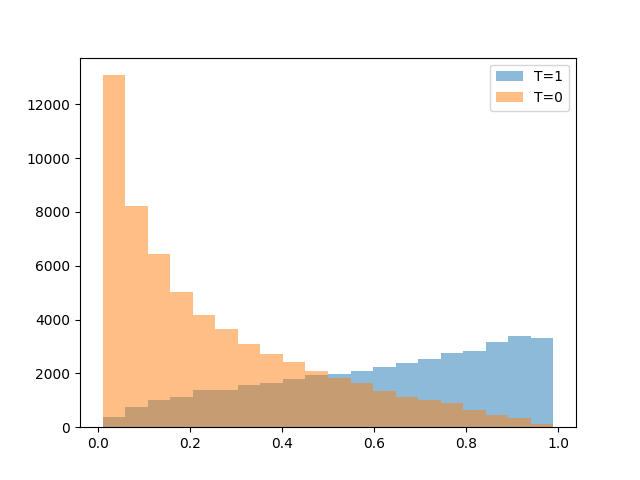
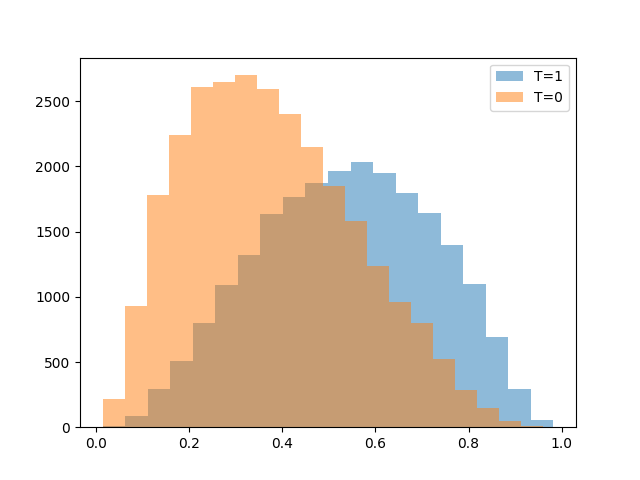
fix

diff --git a/src/make_data.py b/src/make_data.py
@@ -23,7 +23,7 @@ class DatasetGenerator:
         self.seed = seed
 
     def generate_dataset(self) -> dict[str, NDArray[Any]]:
-        dataset: Dict[str, NDArray[Any]] = {}
+        dataset: dict[str, NDArray[Any]] = {}
         dataset |= self.generate_feature()
         dataset |= self.generate_treatment(dataset["features"])
         # auc_score = self.calculate_auc(dataset["T"], dataset["T_prob"])
@@ -64,11 +64,11 @@ class DatasetGenerator:
         np.random.seed(self.seed)
         T_prob = sigmoid(
             (
-                np.dot(features, np.random.uniform(0.8, 1.2, size=self.n_features))
-                - 1.0
+                np.dot(features[:, :2], np.random.uniform(1.0, 1.5, size=2))
+                - 0.5
                 + np.random.normal(0, 0.0, size=len(features))
             )
-            / 1.5
+            / 2.0
         )
         T_prob = T_prob.clip(0.01, 0.99)
         T: NDArray[Any] = np.random.binomial(1, T_prob).astype(bool)
@@ -118,37 +118,74 @@ class DatasetGenerator:
         T: NDArray[Any],
     ) -> dict[str, NDArray[Any]]:
         np.random.seed(self.seed)
-        baseline_effect = np.dot(
-            features[:, 4:], np.random.uniform(0.8, 1.2, self.n_features - 4)
-        )
-        interaction_effect = np.exp(
-            np.dot(features[:, :4], np.random.uniform(0.8, 1.2, 4)) + features[:, 4]
-        )
+
+        def effect(features: NDArray[Any]) -> Tuple[NDArray[Any], NDArray[Any]]:
+            baseline_effect = np.dot(
+                features[:, :2], np.random.uniform(1.8, 2.3, 2)
+            )
+            interaction_effect = np.exp(
+                np.dot(features[:, 2:4], np.random.uniform(0.3, 0.5, 2))
+                + 0.4 * features[:, 0]
+            )
+            return baseline_effect, interaction_effect
+
+        baseline_effect, interaction_effect = effect(features)
         treatment_effect = T * interaction_effect
         std = self.delta * np.sqrt(np.pi / 2)
         noise = np.random.normal(0, std, size=len(features))
-        a = 3.0
+        a = 2.0
         prob_visit = np.clip(
-            sigmoid((baseline_effect + treatment_effect - a) / 6.0) + noise,
+            sigmoid((baseline_effect + treatment_effect - a) / (2 * a)) + noise,
             0.01,
             0.99,
         )
         visit = np.random.binomial(1, prob_visit)
-
+        treatment_features = features[T == 1]
+        control_features = features[T == 0]
+        baseline_effect_treatment, interaction_effect_treatment = effect(
+            treatment_features
+        )
+        baseline_effect_control, interaction_effect_control = effect(control_features)
         prob_visit_treatment = np.clip(
-            sigmoid((baseline_effect + interaction_effect - a) / 6.0) + noise,
+            sigmoid(
+                (baseline_effect_treatment + interaction_effect_treatment - a) / (2 * a)
+            )
+            + noise[: len(treatment_features)],
             0.01,
             0.99,
         )
         prob_visit_control = np.clip(
-            sigmoid((baseline_effect - a) / 6.0) + noise,
+            sigmoid((baseline_effect_control - a) / (2 * a))
+            + noise[len(treatment_features) :],
+            0.01,
+            0.99,
+        )
+        prob_visit_treatment_if_non_treatment = np.clip(
+            sigmoid((baseline_effect_treatment - a) / (2 * a))
+            + noise[: len(treatment_features)],
+            0.01,
+            0.99,
+        )
+        prpb_visit_control_if_treatment = np.clip(
+            sigmoid(
+                (baseline_effect_control + interaction_effect_control - a) / (2 * a)
+            )
+            + noise[len(treatment_features) :],
             0.01,
             0.99,
         )
 
         plt.clf()
-        plt.hist(prob_visit_treatment, bins=20, alpha=0.5, label="Visit")
-        plt.hist(prob_visit_control, bins=20, alpha=0.5, label="Visit")
+        plt.hist(prob_visit_treatment, bins=20, alpha=0.5, label="Visit_Treatment")
+        plt.hist(prob_visit_control, bins=20, alpha=0.5, label="Visit_Control")
+        plt.hist(
+            prob_visit_treatment_if_non_treatment,
+            bins=20,
+            alpha=0.5,
+            label="if_non_treatment",
+        )
+        # plt.hist(prpb_visit_control_if_treatment, bins=20, alpha=0.5, label="if_treatment")
+        plt.legend()
         plt.savefig("visit_prob.png")
         # import pdb
 
@@ -171,45 +208,71 @@ class DatasetGenerator:
         visit: NDArray[Any],
     ) -> Dict[str, NDArray[Any]]:
         np.random.seed(self.seed)
-        baseline_effect_purchase = np.dot(
-            features[:, 4:6], np.random.uniform(0.8, 1.2, 2)
-        )
-        interaction_effect_purchase = np.exp(
-            np.dot(features[:, :2], np.random.uniform(0.8, 1.2, 2)) + features[:, 4]
-        )
-        treatment_effect_purchase = T * interaction_effect_purchase
+
+        def effect(features: NDArray[Any]) -> Tuple[NDArray[Any], NDArray[Any]]:
+            baseline_effect = np.dot(features[:, 0].reshape(-1, 1), np.random.uniform(2.5, 3.0, 1))
+            interaction_effect = np.exp(
+                np.dot(features[:, 2].reshape(-1, 1), np.random.uniform(0.5, 0.7, 1))
+                + 0.4 * features[:, 0]
+            )
+            return baseline_effect, interaction_effect
+
+        baseline_effect, interaction_effect = effect(features)
+        treatment_effect = T * interaction_effect
         std = self.delta * np.sqrt(np.pi / 2)
         noise = np.random.normal(0, std, size=len(features))
-        a = 3.0
+        a = 2.0
         prob_purchase = np.clip(
-            sigmoid((baseline_effect_purchase + treatment_effect_purchase - a) / 6.0)
+            sigmoid((baseline_effect + treatment_effect - a) / (2 * a))
             + noise,
             0.01,
             0.99,
         )
+        treatment_features = features[T == 1]
+        control_features = features[T == 0]
+        baseline_effect_treatment, interaction_effect_treatment = effect(
+            treatment_features
+        )
+        baseline_effect_control, interaction_effect_control = effect(control_features)
         prob_purchase_treatment = np.clip(
-            sigmoid((baseline_effect_purchase + interaction_effect_purchase - a) / 6.0)
-            + noise,
+            sigmoid(
+                (baseline_effect_treatment + interaction_effect_treatment - a) / (2 * a)
+            )
+            + noise[: len(treatment_features)],
             0.01,
             0.99,
         )
         prob_purchase_control = np.clip(
-            sigmoid((baseline_effect_purchase - a) / 3.0) + noise,
+            sigmoid((baseline_effect_control - a) / (2 * a))
+            + noise[len(treatment_features) :],
+            0.01,
+            0.99,
+        )
+        prob_purchase_treatment_if_non_treatment = np.clip(
+            sigmoid((baseline_effect_treatment - a) / (2 * a))
+            + noise[: len(treatment_features)],
             0.01,
             0.99,
         )
         purchase = np.where(visit == 1, np.random.binomial(1, prob_purchase), 0)
         plt.clf()
-        plt.hist(prob_purchase_treatment, bins=20, alpha=0.5, label="Purchase")
-        plt.hist(prob_purchase_control, bins=20, alpha=0.5, label="Purchase")
+        plt.hist(
+            prob_purchase_treatment, bins=20, alpha=0.5, label="Purchase_Treatment"
+        )
+        plt.hist(prob_purchase_control, bins=20, alpha=0.5, label="Purchase_Control")
+        plt.hist(
+            prob_purchase_treatment_if_non_treatment,
+            bins=20,
+            alpha=0.5,
+            label="if_non_treatment",
+        )
+        plt.legend()
         plt.savefig("purchase_prob.png")
         import pdb
 
         pdb.set_trace()
-        true_mu_r_1 = (
-            sigmoid(baseline_effect_purchase + interaction_effect_purchase - a) + noise
-        )
-        true_mu_r_0 = sigmoid(baseline_effect_purchase - a) + noise
+        true_mu_r_1 = sigmoid(baseline_effect + interaction_effect - a) + noise
+        true_mu_r_0 = sigmoid(baseline_effect - a) + noise
         true_tau_r = true_mu_r_1 - true_mu_r_0
         return {
             "y_r": purchase,
@@ -295,7 +358,7 @@ def split_dataset(
     train_val_idx, test_idx = train_test_split(
         np.arange(len(dataset["features"])),
         train_size=0.8,
-        random_state=42,
+        random_state=0,
         stratify=dataset["T"],
     )
     train_val_dataset = {}
@@ -307,7 +370,7 @@ def split_dataset(
     train_idx, val_idx = train_test_split(
         np.arange(len(train_val_dataset["features"])),
         train_size=0.75,
-        random_state=42,
+        random_state=0,
         stratify=train_val_dataset["T"],
     )
     train_dataset = {}

diff --git a/main.py b/main.py
@@ -5,13 +5,13 @@ import numpy as np
 import torch
 from lightgbm import LGBMClassifier
 from numpy.typing import NDArray
+from sklearn.metrics import roc_auc_score
 from sklearn.preprocessing import MinMaxScaler
 
 from src.evaluate.evaluate import calculate_values, cost_curve
 from src.make_data import DatasetGenerator, split_dataset
 from src.model.common import get_model, make_loader
 from src.trainer import Trainer
-from sklearn.metrics import roc_auc_score
 
 # NNのランダム性を固定
 torch.manual_seed(42)
@@ -46,10 +46,16 @@ def get_roi_tpmsl(
     rmse_tau_r = np.sqrt(np.mean((test_dataset["true_tau_r"] - tau_r) ** 2))
     rmse_tau_c = np.sqrt(np.mean((test_dataset["true_tau_c"] - tau_c) ** 2))
     # AUCを計算
-    # auc_mu_r_0 = roc_auc_score(np.round(np.clip(test_dataset["true_mu_r_0"], 0, 1)), mu_r_0)
-    auc_mu_r_1 = roc_auc_score(np.round(np.clip(test_dataset["true_mu_r_1"], 0, 1)), mu_r_1)
-    auc_mu_c_0 = roc_auc_score(np.round(np.clip(test_dataset["true_mu_c_0"], 0, 1)), mu_c_0)
-    auc_mu_c_1 = roc_auc_score(np.round(np.clip(test_dataset["true_mu_c_1"], 0, 1)), mu_c_1)
+    auc_mu_r_0 = roc_auc_score(np.round(np.clip(test_dataset["true_mu_r_0"], 0, 1)), mu_r_0)
+    auc_mu_r_1 = roc_auc_score(
+        np.round(np.clip(test_dataset["true_mu_r_1"], 0, 1)), mu_r_1
+    )
+    auc_mu_c_0 = roc_auc_score(
+        np.round(np.clip(test_dataset["true_mu_c_0"], 0, 1)), mu_c_0
+    )
+    auc_mu_c_1 = roc_auc_score(
+        np.round(np.clip(test_dataset["true_mu_c_1"], 0, 1)), mu_c_1
+    )
 
     roi_tpmsl = tau_r / tau_c
     scaler = MinMaxScaler()
@@ -63,10 +69,10 @@ def get_roi_tpmsl(
 
 def main(predict_ps: bool) -> None:
     seed = 42
-    n_samples = 100_000
-    n_features = 8
+    n_samples = 50_000
+    n_features = 6
     num_epochs = 50
-    delta = 0.1
+    delta = 0.0
     batch_size = 128
     model_name = "Direct"
     model_params = {"input_dim": n_features}
@@ -76,11 +82,11 @@ def main(predict_ps: bool) -> None:
     dataset = dataset.generate_dataset()
     train_dataset, val_dataset, test_dataset = split_dataset(dataset)
     model = get_model(model_name=model_name, model_params=model_params)
-    method_list: list = ["DR", "IPW", "Direct"]
-    # method_list = method_list[:1]
+    method_list: list = ["DR", "Direct", "IPW"]
+    method_list = method_list[:2]
     # method_list = []
     roi_dic = {}
-    lr_list: list = [0.001, 0.001, 0.001]
+    lr_list: list = [0.0001, 0.0001, 0.0005]
     for i, method in enumerate(method_list):
         train_dl = make_loader(
             train_dataset,
@@ -120,6 +126,7 @@ def main(predict_ps: bool) -> None:
     model_params = {"input_dim": n_features + 1}
     model = get_model(model_name=model_name, model_params=model_params)
     method_list: list = ["cost", "revenue"]
+    method_list = []
     prediction_sl: dict[str, NDArray[np.float64]] = {}
     num_epochs = 50
     lr = 0.00002
@@ -153,9 +160,9 @@ def main(predict_ps: bool) -> None:
         trainer.save_model(model, "model.pth")
         predictions = trainer.predict(dl=test_dl, model=model).squeeze()
         prediction_sl[method] = predictions
-    roi_dic["TPMSL"] = prediction_sl["revenue"] / (prediction_sl["cost"] + 1e-6)
-    scaler = MinMaxScaler()
-    roi_dic["TPMSL"] = scaler.fit_transform(roi_dic["TPMSL"].reshape(-1, 1)).flatten()
+    # roi_dic["TPMSL"] = prediction_sl["revenue"] / (prediction_sl["cost"] + 1e-6)
+    # scaler = MinMaxScaler()
+    # roi_dic["TPMSL"] = scaler.fit_transform(roi_dic["TPMSL"].reshape(-1, 1)).flatten()
     roi_dic["Optimal"] = test_dataset["true_tau_r"] / test_dataset["true_tau_c"]
     plt.clf()
     for roi in roi_dic:
@@ -166,4 +173,4 @@ def main(predict_ps: bool) -> None:
 
 
 if __name__ == "__main__":
-    main(predict_ps=False)
+    main(predict_ps=True)

diff --git a/src/trainer.py b/src/trainer.py
@@ -31,7 +31,7 @@ class Trainer:
     ) -> nn.Module:  # type: ignore
         optimizer = optim.Adam(model.parameters(), lr=self.lr)
         lambda_scheduler = lr_scheduler.LambdaLR(
-            optimizer, lr_lambda=lambda epoch: 0.90**epoch
+            optimizer, lr_lambda=lambda epoch: 0.95**epoch
         )
         train_loss_history: List[float] = []
         val_loss_history: List[float] = []

diff --git a/src/model/direct.py b/src/model/direct.py
@@ -125,7 +125,7 @@ class DirectNonLinear(nn.Module):
         self.mlp = nn.Sequential(
             nn.Linear(input_dim, 2 * input_dim),
             nn.ReLU(),
-            nn.Dropout(0.05),
+            nn.Dropout(0.1),
             nn.Linear(2 * input_dim, input_dim),
             nn.ReLU(),
             nn.Dropout(0.05),
